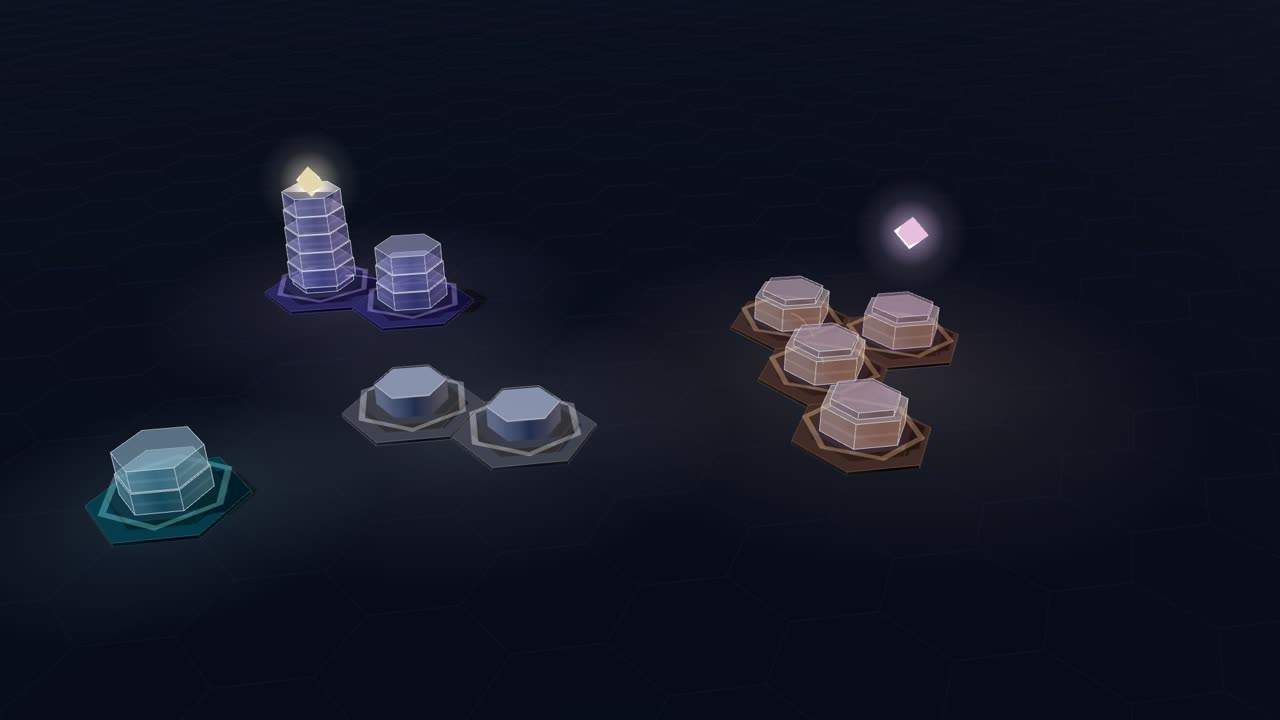
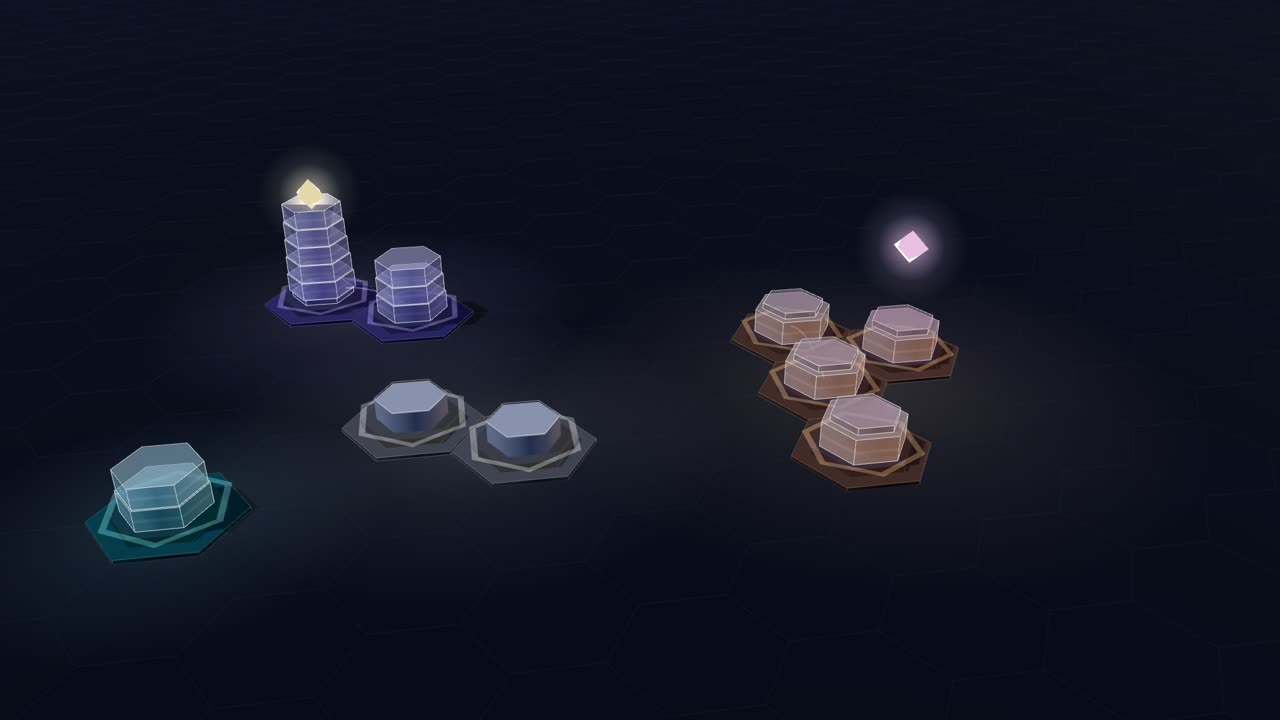
docs(construct): frames from the final film render

Changed region(s): [[0.1875, 0.2139, 0.4688, 0.6722], [0.5625, 0.275, 0.75, 0.7028], [0.0625, 0.5806, 0.1875, 0.7944]]

diff --git a/docs/CONSTRUCT.md b/docs/CONSTRUCT.md
@@ -41,9 +41,8 @@ Animations run in viewer time (performance time divided by replay speed), so pac
 - Renderer: `public/construct.js`, Three.js 0.170 vendored at `public/vendor/three.module.min.js` (MIT, see
   `public/vendor/THREE-LICENSE.txt`), loaded on demand. Without WebGL the player falls back to Monolith (Canvas2D).
 - Camera: a slow orbit (one turn in about nine minutes) that frames the site's actual outline (buildings, bridges and
-  working drones) as closely as it can,
-  balanced between the top of the frame and the caption area, and leans toward where something meaningful happens
-  without letting the rest leave the frame. It never cuts or jumps.
+  working drones) as closely as it can, balanced between the top of the frame and the caption area, and leans toward
+  where something meaningful happens without letting the rest leave the frame. It never cuts or jumps.
 - Scale: storeys per building are capped (the rest form a crown), conduits inside a district rest quieter the more
   there are, and when buildings are only a few pixels wide the storey corner lines and plot outlines are left out.
   Settled conduits are merged into one mesh. With 450 files: 3,622 draw calls (see `docs/QUALIFICATION.md`).
